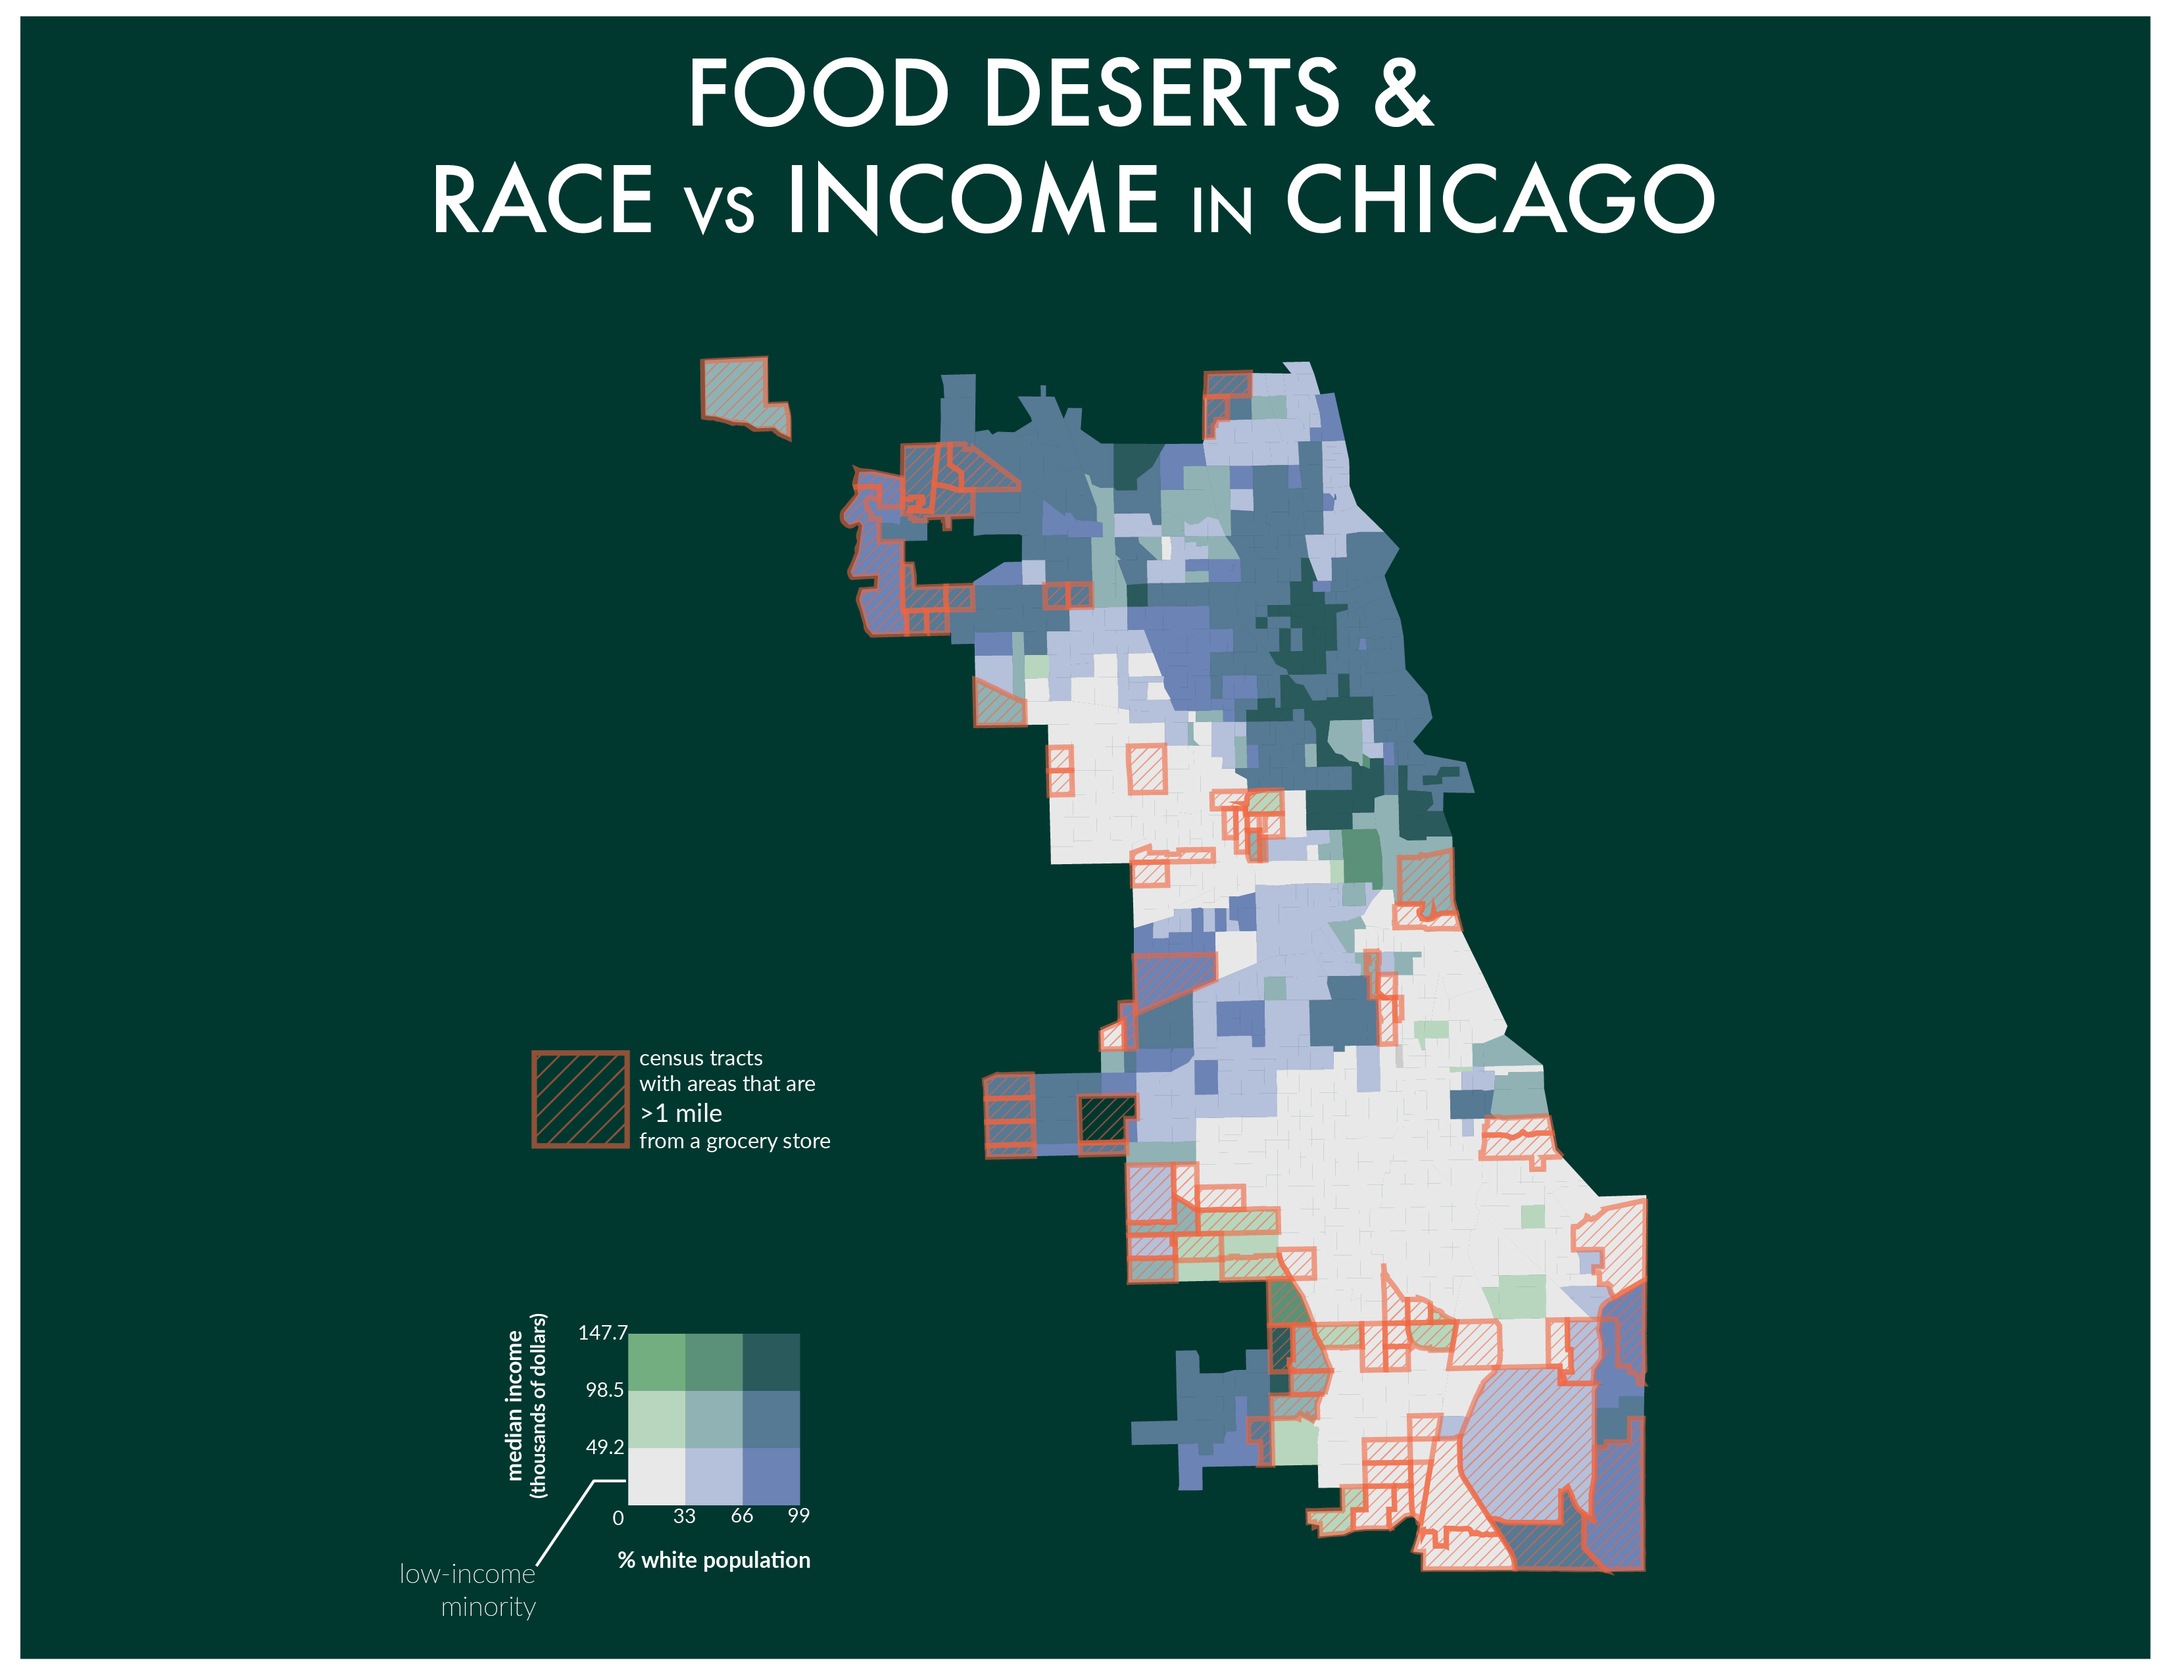
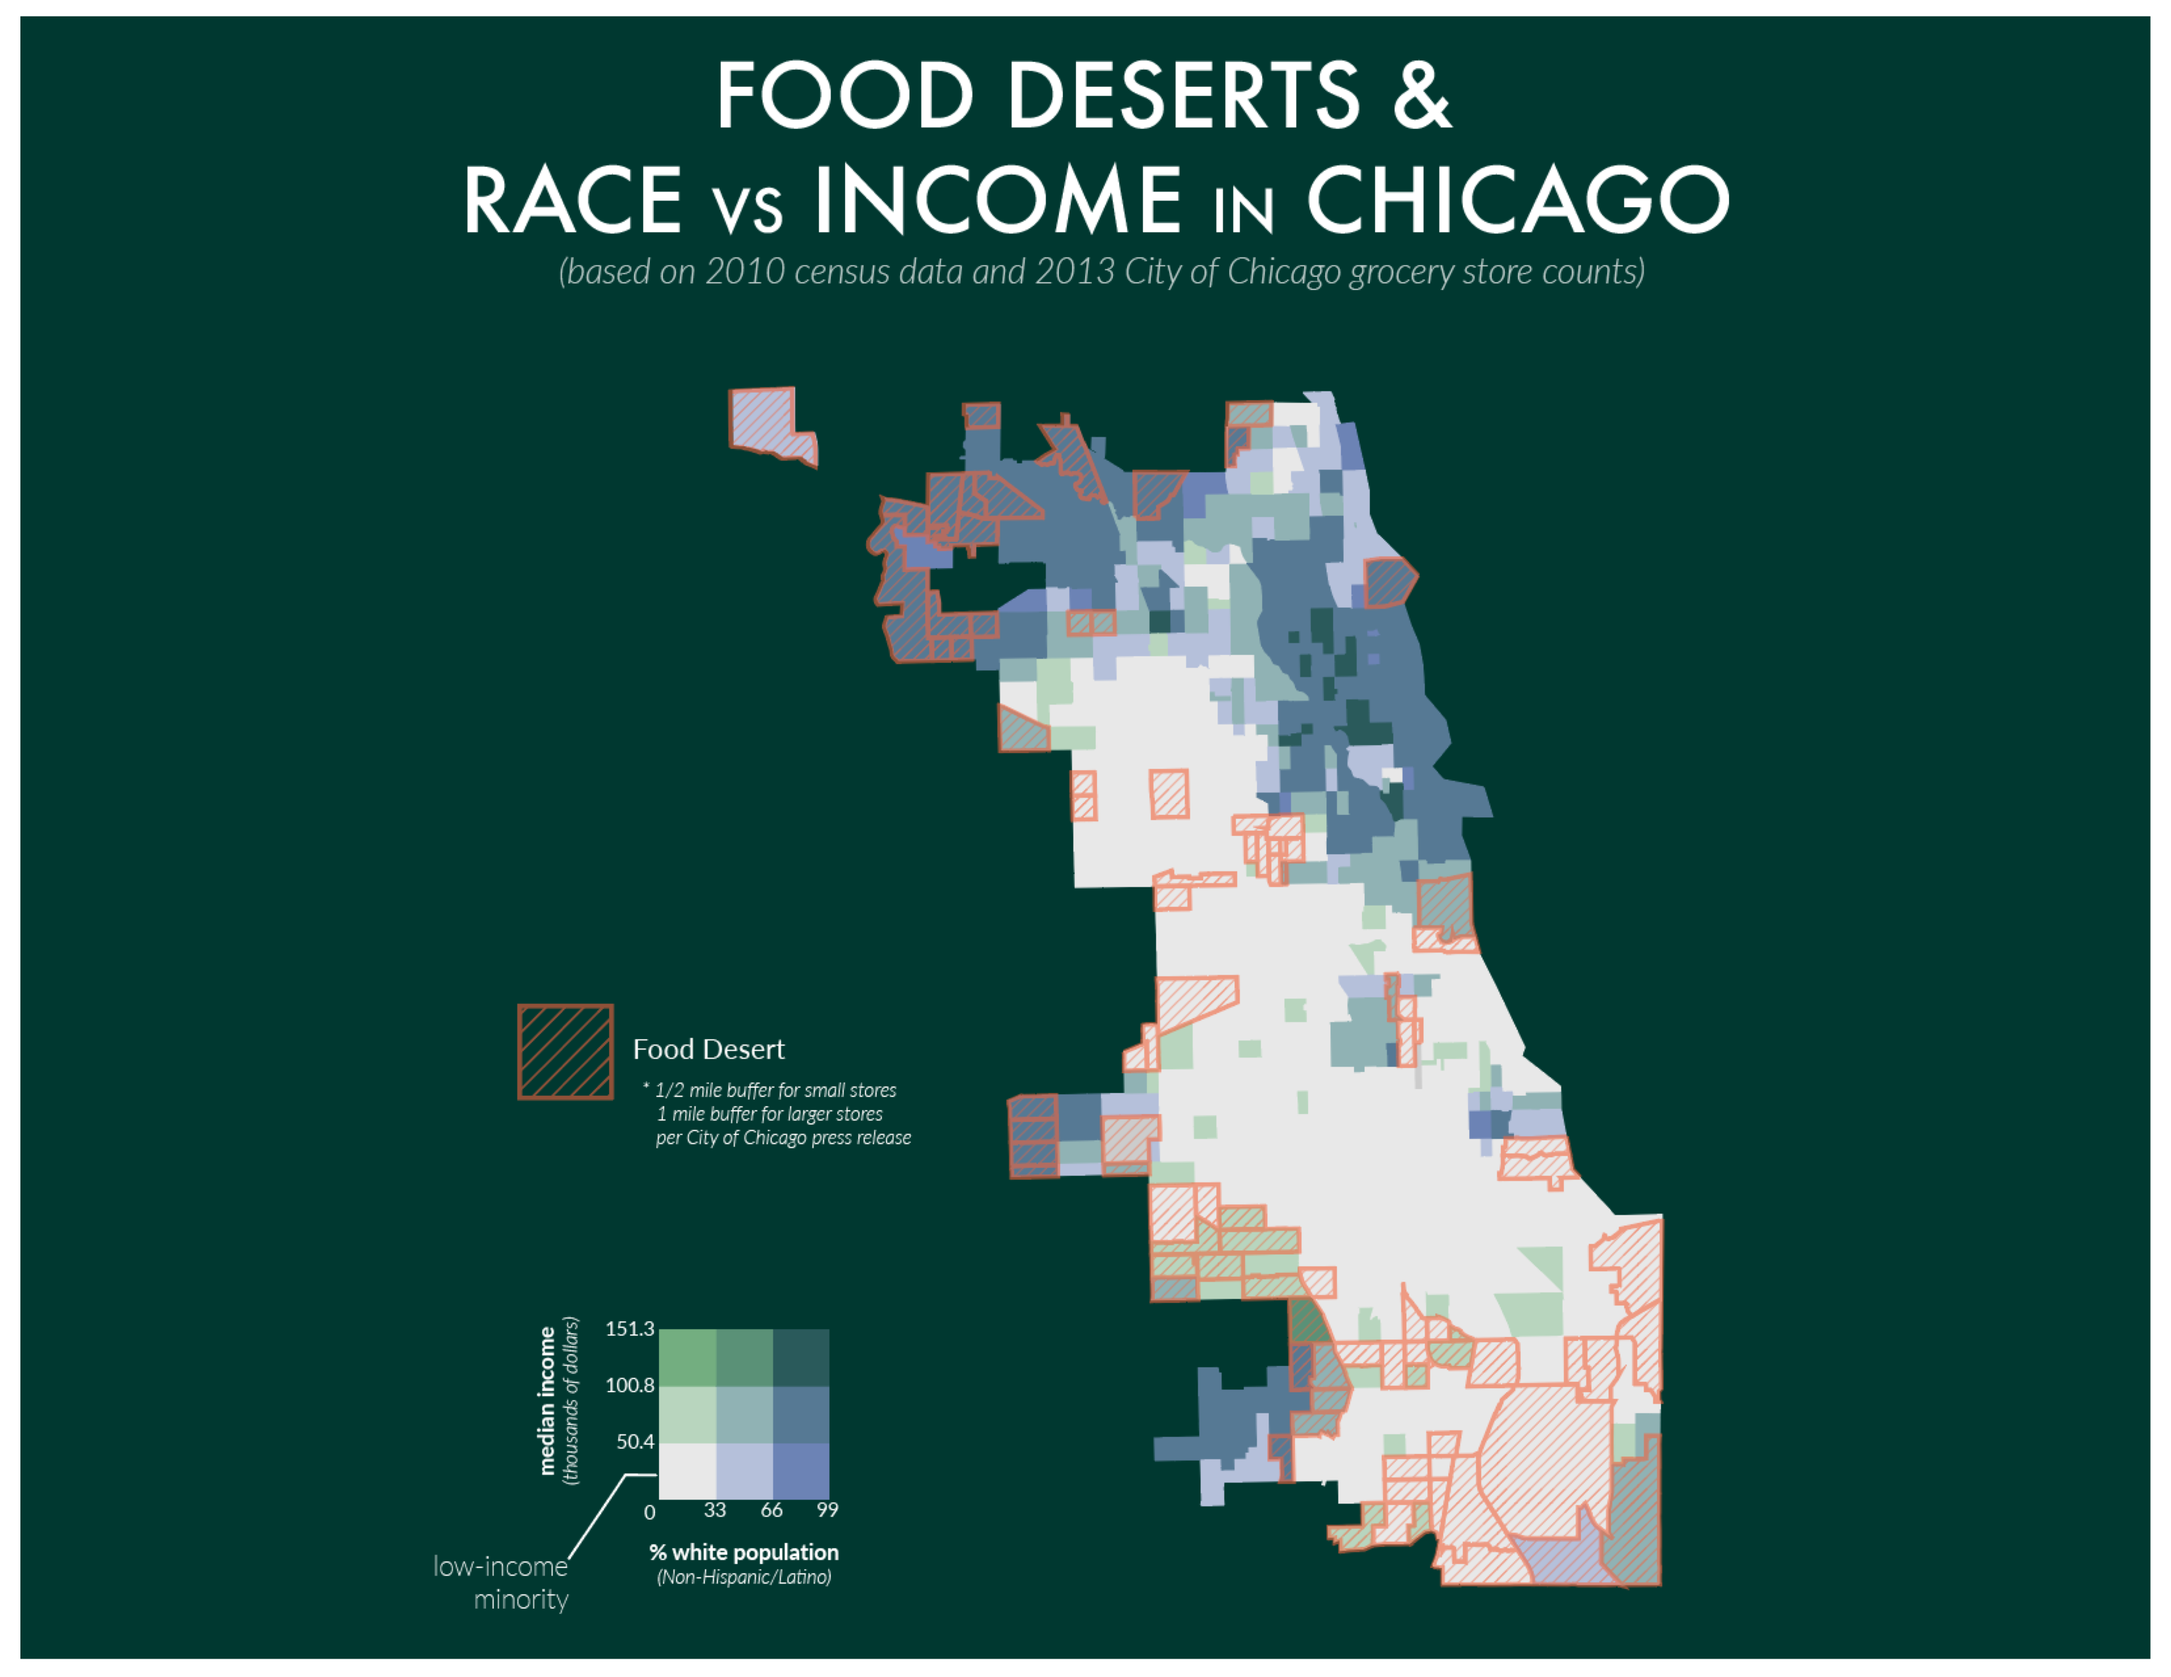
updating bivariate choropleth

diff --git a/fooddeserts.html b/fooddeserts.html
@@ -54,7 +54,7 @@
 						<br>(currently updating artwork and North Lawndale Urban Farm news) </i>
 				</p>
 				<div class="col-lg-12" align="middle">
-						<img src="imgs/food-desert_Long.png" alt="Food Deserts" class="img-responsive"/>
+						<img src="imgs/THISFoodDesert.png" alt="Food Deserts" class="img-responsive"/>
 				</div>
 				
 
